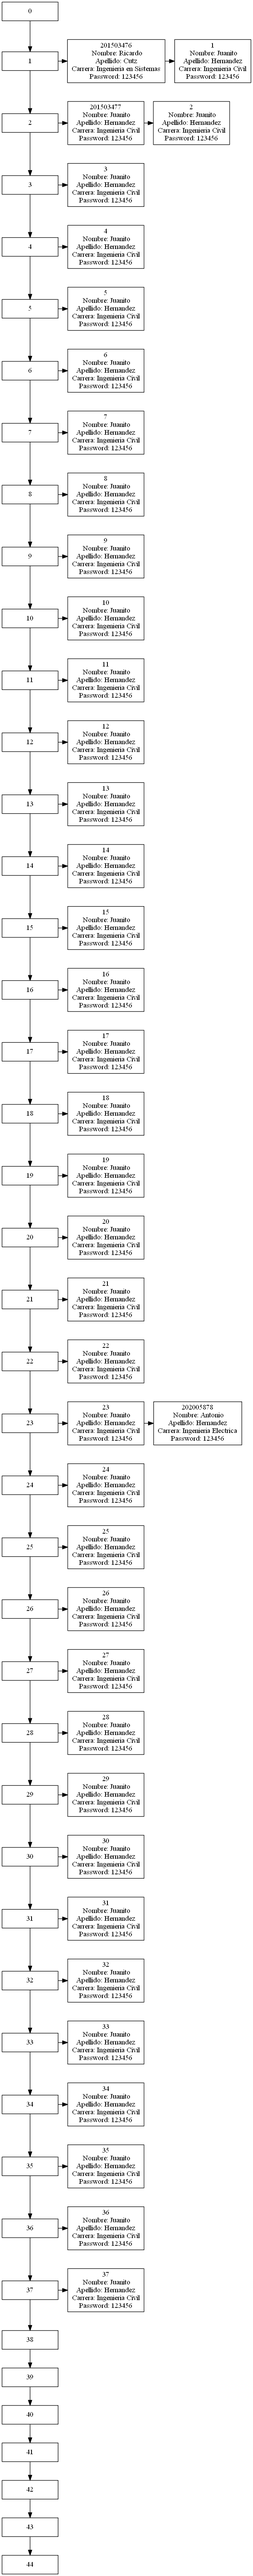
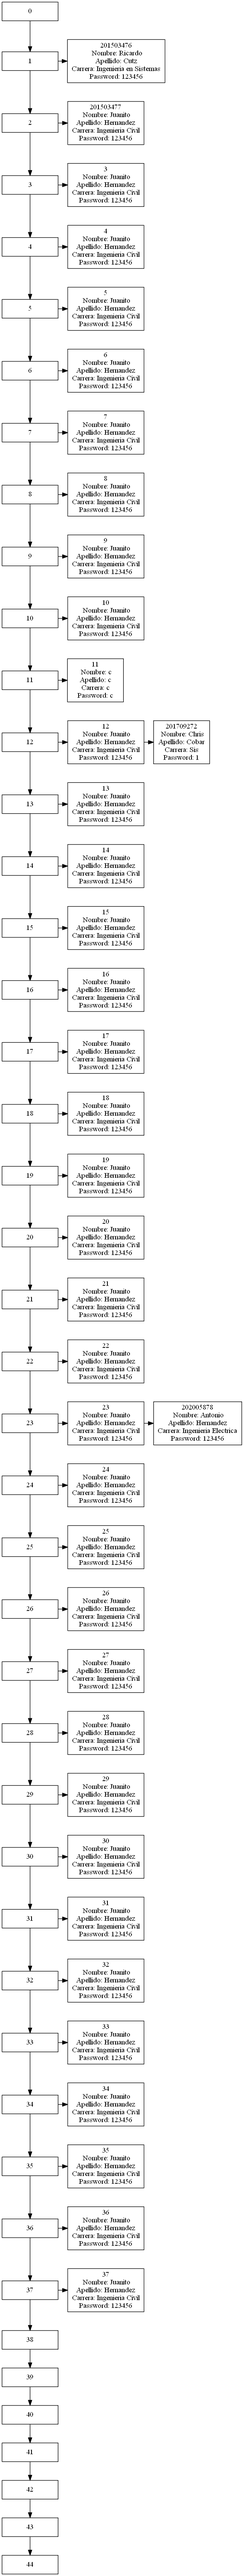
logep de cualquier usuario registrado en el sistema

diff --git a/USACLibrary/src/interfaz/Login.java b/USACLibrary/src/interfaz/Login.java
@@ -6,6 +6,8 @@
 package interfaz;
 
 import javax.swing.JOptionPane;
+import logica.NodoLista;
+import usaclibrary.USACLibrary;
 
 /**
  *
@@ -91,6 +93,10 @@ public class Login extends javax.swing.JFrame {
         String txtusuario = jtUsuario.getText();
         String txtcontrasena = jtpass.getText();
 
+        //almacena en la variable global para hacer validaciones
+        usaclibrary.USACLibrary.UsuarioLogeado = txtusuario;
+        usaclibrary.USACLibrary.ClaveUsuarioLogeado = txtcontrasena;
+
         if (jtUsuario.getText().isEmpty()) {
             JOptionPane.showMessageDialog(null, "llenar Campo", "Alerta", JOptionPane.WARNING_MESSAGE);
         } else if (jtpass.getText().isEmpty()) {
@@ -105,6 +111,22 @@ public class Login extends javax.swing.JFrame {
                 this.dispose(); // cerrar login
                 //abrir la ventana de la libreria
                 new Plataforma().setVisible(true);
+
+            } //si no es el administrador buscar que el usuario exista en la hash
+            //validar que el carnet  exista ya en el sistema
+            else if (USACLibrary.hash.existeUsuario(txtusuario)) { // si  existe el carnet registrado ingresar plataforma
+
+                //validar que el usuario existente este bien la contrasena
+                NodoLista aux = USACLibrary.hash.busquedaModificar(USACLibrary.UsuarioLogeado); // obtener informacion de usuario logueado
+
+                if (aux.carnet.equals(USACLibrary.UsuarioLogeado) && aux.password.equals(USACLibrary.ClaveUsuarioLogeado)) {
+                    this.dispose(); // cerrar login
+                    //abrir la ventana de la libreria
+                    JOptionPane.showMessageDialog(null, "Bienvenido Carnet: "+USACLibrary.UsuarioLogeado);
+                    new Plataforma().setVisible(true);
+                } else {
+                    JOptionPane.showMessageDialog(null, "Contraseña Incorrecta", "Alerta", JOptionPane.WARNING_MESSAGE);
+                }
 
             } else {
                 JOptionPane.showMessageDialog(null, "Credenciales no registradas en el sistema", "Alerta", JOptionPane.WARNING_MESSAGE);

diff --git a/USACLibrary/src/usaclibrary/USACLibrary.java b/USACLibrary/src/usaclibrary/USACLibrary.java
@@ -17,8 +17,8 @@ public class USACLibrary {
     public static tablaHash hash = new tablaHash(45);
     
     //variables que obtienen el nombre del usuario que se encuentra logeado.
-    public static String UsuarioLogeado = "201709272";
-    public String ClaveUsuarioLogeado = "";
+    public static String UsuarioLogeado = "";
+    public static String ClaveUsuarioLogeado = "";
     
     
     public static void main(String[] args) {
